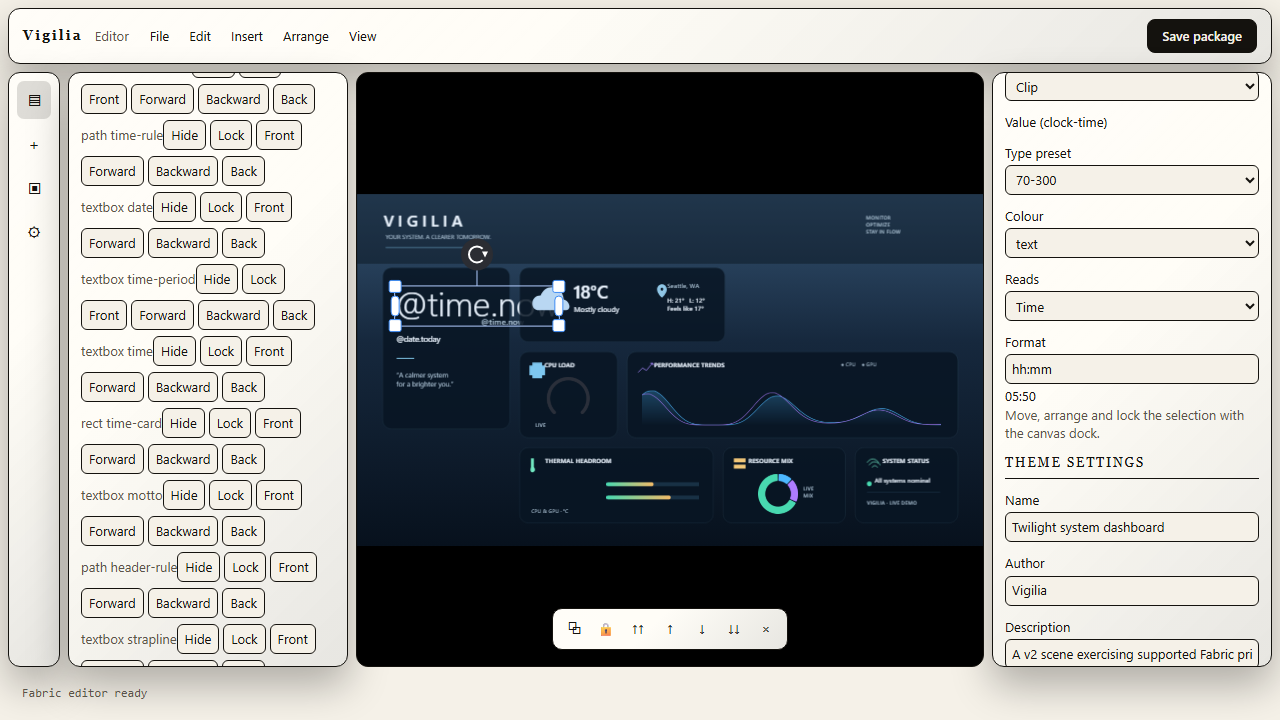
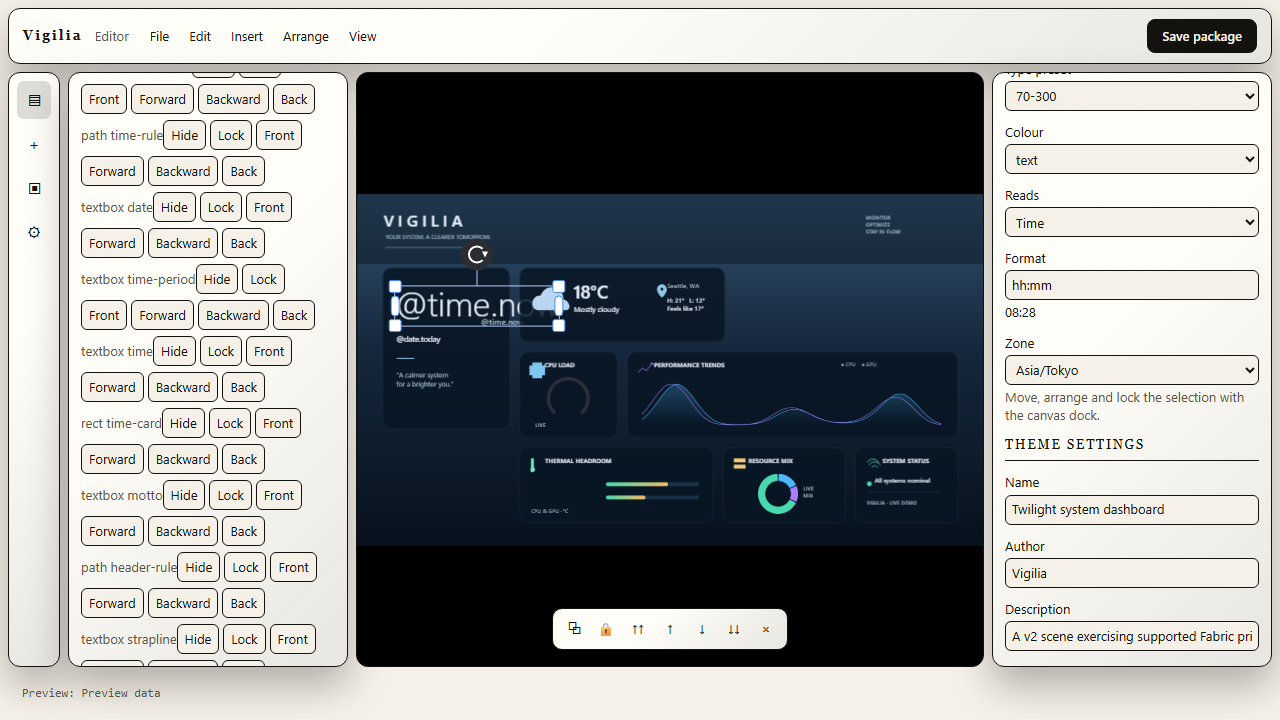
feat(editor): author a clock's zone from the run row
The binding's zone was honoured end to end but nothing wrote it, so a
world-clocks theme had to be authored in the envelope. The run row now
carries a Zone picker beside Format: its first option follows the display
and the rest are every zone `Intl` resolves. `knownTimeZones` leads with
UTC, which `Intl` resolves but omits from its canonical list and which is
the zone a dashboard most often pins, and an alias that list omits keeps
its own entry rather than reading as unpinned.

diff --git a/src/web/packages/editor/src/selection-inspector/runs.ts b/src/web/packages/editor/src/selection-inspector/runs.ts
@@ -8,6 +8,7 @@ import {
   describeSemanticKey,
   formatInstant,
   instantIn,
+  knownTimeZones,
   SEMANTIC_KEYS,
 } from "@vigilia/renderer-core";
 import { applyAuthoredText } from "@vigilia/scene-fabric";
@@ -91,6 +92,18 @@ function withFormat(binding: Binding, format: string): Binding {
   }
 
   return { ...binding, format: trimmed };
+}
+
+/** A binding with `timeZone` pinned, or without the field when none is. */
+function withZone(binding: Binding, timeZone: string): Binding {
+  const trimmed = timeZone.trim();
+
+  if (trimmed.length === 0) {
+    const { timeZone: _timeZone, ...rest } = binding;
+    return rest;
+  }
+
+  return { ...binding, timeZone: trimmed };
 }
 
 /** A binding for `key`, with the fields the previous key's reading needed dropped. */
@@ -336,6 +349,57 @@ export function createRunEditor(
     return wrapper;
   };
 
+  /**
+   * Which zone the reading is taken in. A dashboard showing another city than
+   * the one it runs in is the point of a world clock, so the zone is the
+   * author's to pin; leaving it alone follows the display, which reads in
+   * whatever zone its consumer chose.
+   */
+  const zoneField = (
+    index: number,
+    binding: Binding,
+    port: RunBindingPort,
+  ): HTMLElement => {
+    const wrapper = document.createElement("label");
+    wrapper.textContent = uiCopy.inspectorFields.runZone;
+    const select = document.createElement("select");
+    select.dataset["vigiliaRunZone"] = String(index);
+    const follows = document.createElement("option");
+    follows.value = "";
+    follows.textContent = uiCopy.inspectorFields.runZoneFollows;
+    select.append(follows);
+
+    const pinned = binding.timeZone;
+    const zones = knownTimeZones();
+    // An alias the canonical list omits (`US/Pacific`) is a zone the envelope
+    // accepts, so it keeps its own entry rather than reading as unpinned.
+    for (const name of pinned !== undefined && !zones.includes(pinned)
+      ? [pinned, ...zones]
+      : zones) {
+      const option = document.createElement("option");
+      option.value = name;
+      option.textContent = name;
+      select.append(option);
+    }
+
+    select.value = pinned ?? "";
+    select.addEventListener("change", () => {
+      port.setBindings(
+        port
+          .bindings()
+          .map((candidate) =>
+            candidate.id === binding.id
+              ? withZone(candidate, select.value)
+              : candidate,
+          ),
+      );
+      onChange();
+    });
+
+    wrapper.append(select);
+    return wrapper;
+  };
+
   runs.forEach((run, index) => {
     const row = document.createElement("section");
     row.dataset["vigiliaRun"] = String(index);
@@ -406,7 +470,10 @@ export function createRunEditor(
         bound !== undefined &&
         describeSemanticKey(bound.semanticKey)?.instant !== undefined
       ) {
-        row.append(formatField(index, bound, port));
+        row.append(
+          formatField(index, bound, port),
+          zoneField(index, bound, port),
+        );
       }
     }
 

diff --git a/src/web/packages/editor/src/selection-inspector/runs.dom.test.ts b/src/web/packages/editor/src/selection-inspector/runs.dom.test.ts
@@ -90,13 +90,14 @@ describe("binding a text run to a sensor", () => {
     return box.dispose();
   });
 
-  it("offers a format only for a key that is an instant", () => {
+  it("offers a format and a zone only for a key that is an instant", () => {
     const box = harness(literalClock);
     const source = box.pick<HTMLSelectElement>('[data-vigilia-run-source="0"]');
 
     choose(source, "cpu.load");
     box.render();
     expect(box.host.querySelector('[data-vigilia-run-format="0"]')).toBeNull();
+    expect(box.host.querySelector('[data-vigilia-run-zone="0"]')).toBeNull();
 
     choose(
       box.pick<HTMLSelectElement>('[data-vigilia-run-source="0"]'),
@@ -105,6 +106,9 @@ describe("binding a text run to a sensor", () => {
     box.render();
     expect(
       box.host.querySelector('[data-vigilia-run-format="0"]'),
+    ).not.toBeNull();
+    expect(
+      box.host.querySelector('[data-vigilia-run-zone="0"]'),
     ).not.toBeNull();
     return box.dispose();
   });
@@ -162,7 +166,7 @@ describe("binding a text run to a sensor", () => {
     return box.dispose();
   });
 
-  it("drops a format that described the reading the run no longer reads", () => {
+  it("drops what described the reading the run no longer reads", () => {
     const box = harness(literalClock);
     choose(
       box.pick<HTMLSelectElement>('[data-vigilia-run-source="0"]'),
@@ -173,6 +177,10 @@ describe("binding a text run to a sensor", () => {
     input.value = "dddd";
     input.dispatchEvent(new Event("change"));
     box.render();
+    choose(
+      box.pick<HTMLSelectElement>('[data-vigilia-run-zone="0"]'),
+      "Asia/Tokyo",
+    );
 
     choose(
       box.pick<HTMLSelectElement>('[data-vigilia-run-source="0"]'),
@@ -181,6 +189,34 @@ describe("binding a text run to a sensor", () => {
 
     expect(box.stored()[0]?.semanticKey).toBe("cpu.load");
     expect(box.stored()[0]?.format).toBeUndefined();
+    expect(box.stored()[0]?.timeZone).toBeUndefined();
+    return box.dispose();
+  });
+
+  it("reads the clock in the zone the author pinned to it", () => {
+    const box = harness(literalClock);
+    choose(
+      box.pick<HTMLSelectElement>('[data-vigilia-run-source="0"]'),
+      "time.now",
+    );
+    box.render();
+
+    // Unpinned is the default: the display reads wherever its consumer is.
+    const zone = box.pick<HTMLSelectElement>('[data-vigilia-run-zone="0"]');
+    expect(zone.value).toBe("");
+
+    choose(zone, "Asia/Tokyo");
+    box.render();
+    expect(box.stored()[0]?.timeZone).toBe("Asia/Tokyo");
+
+    // The preview is the reading the run will paint, so pinning a zone has to
+    // change what it says rather than only what is stored.
+    expect(box.pick('[data-vigilia-run-format-preview="0"]').textContent).toBe(
+      formatInstant(instantIn(Date.now()), "HH:mm", "Asia/Tokyo"),
+    );
+
+    choose(box.pick<HTMLSelectElement>('[data-vigilia-run-zone="0"]'), "");
+    expect(box.stored()[0]?.timeZone).toBeUndefined();
     return box.dispose();
   });
 

diff --git a/src/web/tests/e2e/editor-fork.spec.ts b/src/web/tests/e2e/editor-fork.spec.ts
@@ -201,7 +201,43 @@ test.describe("Fabric editor route", () => {
     await expect(source).toHaveValue("time.now");
     const format = page.locator('[data-vigilia-run-format="0"]');
     await expect(format).toBeVisible();
-    await format.scrollIntoViewIfNeeded();
+    // The starter clock's own tokens, so the reading below is one this test can
+    // compute rather than one it wrote.
+    await expect(format).toHaveValue("hh:mm");
+
+    // A clock pinned to another city is the point of a world clock, so the zone
+    // has to change the reading rather than only the envelope: the control is
+    // rebuilt from what was written, and the preview follows it.
+    const zone = page.locator('[data-vigilia-run-zone="0"]');
+    await expect(zone).toHaveValue("");
+    await zone.selectOption("Asia/Tokyo");
+    await expect(zone).toHaveValue("Asia/Tokyo");
+    await expect
+      .poll(
+        async () => {
+          const shown = (
+            await page
+              .locator('[data-vigilia-run-format-preview="0"]')
+              .textContent()
+          )?.trim();
+          const tokyo = await page.evaluate(() => {
+            const parts = new Intl.DateTimeFormat("en-GB", {
+              timeZone: "Asia/Tokyo",
+              hour12: true,
+              hour: "2-digit",
+              minute: "2-digit",
+            }).formatToParts(new Date());
+            const part = (type: string): string =>
+              parts.find((entry) => entry.type === type)?.value ?? "";
+            return `${part("hour")}:${part("minute")}`;
+          });
+          return shown === tokyo;
+        },
+        { timeout: 10_000 },
+      )
+      .toBe(true);
+
+    await zone.scrollIntoViewIfNeeded();
 
     await captureVisualReview(page, testInfo, "editor-fork-text-reads");
   });

diff --git a/src/web/packages/renderer-core/src/scene/datetime-format.test.ts b/src/web/packages/renderer-core/src/scene/datetime-format.test.ts
@@ -1,5 +1,11 @@
 import { describe, expect, it } from "vitest";
-import { formatInstant, instantIn, parseInstant } from "./datetime-format.js";
+import {
+  formatInstant,
+  instantIn,
+  isTimeZoneName,
+  knownTimeZones,
+  parseInstant,
+} from "./datetime-format.js";
 
 /** A Thursday: 2026-09-24, 14:07:09 at +07:00. */
 const INSTANT = "2026-09-24T14:07:09+07:00";
@@ -98,5 +104,14 @@ describe("the instant a provider reports", () => {
 
   it("falls back to this machine rather than losing the clock", () => {
     expect(instantIn(NOW_MS, "Mars/Olympus")).toBe(instantIn(NOW_MS));
+  });
+});
+
+describe("the zones an author may pin", () => {
+  it("offers UTC, and only names this runtime resolves", () => {
+    const zones = knownTimeZones();
+
+    expect(zones[0]).toBe("UTC");
+    expect(zones.every(isTimeZoneName)).toBe(true);
   });
 });

diff --git a/src/web/packages/renderer-core/src/scene/datetime-format.ts b/src/web/packages/renderer-core/src/scene/datetime-format.ts
@@ -230,9 +230,13 @@ export function isTimeZoneName(value: string): boolean {
   }
 }
 
-/** Every zone an author may pin a clock to, for the authoring control. */
+/**
+ * Every zone an author may pin a clock to, for the authoring control. `Intl`
+ * resolves UTC but omits it from the canonical list, and server time is the zone
+ * a dashboard most often pins, so it leads.
+ */
 export function knownTimeZones(): readonly string[] {
-  return Intl.supportedValuesOf("timeZone");
+  return ["UTC", ...Intl.supportedValuesOf("timeZone")];
 }
 
 /** Renders an instant with the author's tokens; literals pass through. */

diff --git a/src/web/packages/editor/src/ui-copy.ts b/src/web/packages/editor/src/ui-copy.ts
@@ -37,6 +37,8 @@ export const uiCopy = {
     runSource: "Reads",
     staticText: "Static text",
     runFormat: "Format",
+    runZone: "Zone",
+    runZoneFollows: "Follow the display",
     valueRun: "Value",
     emptyRun: "(empty)",
     align: "Align",

diff --git a/.agents/status.md b/.agents/status.md
@@ -8,7 +8,7 @@ Current handoff only. Durable rules: `AGENTS.md`; product:
 
 | Check | Result |
 |---|---|
-| Clock and date as sensors | The starter theme's clock was authored literal text (`"07:24"`), so it looked like a clock and showed one time for ever. `time.now` and `date.today` now come from a host provider as **instants**: the reading carries the offset of the zone it was read in, so two displays agree and none of them re-converts. An author owns how it reads, with a small token set (`HH H hh h mm ss dddd ddd DD D MMMM MMM MM YYYY YY A a`, `[bracketed]` literals, unknown tokens kept literally rather than blanked); the Design tab's run row gained a **Reads** picker and a **Format** field with a live preview, so a binding can finally be authored rather than only pre-built. The consumer owns only the zone, as a global setting (`/settings` → Display, stored in `display.json` beside the themes) applied by the provider. Two defects were found by driving it rather than reading it: an unbind left a stale `run.bindingId`, and the e2e probe's `adapter.objectFor` indexes only what a plan applied — so on a scene revived from a package every object read as missing, which is what the new clock test tripped over. Verified against the real host: the painted clock advanced on its own across cadences (17:39:08 → 17:39:10), and after `PUT /api/display {"timeZone":"Asia/Tokyo"}` the painted reading matched Tokyo's wall clock while an unchosen zone matched this PC's. Evidence: 1215-unit suite, `biome check` exit 0, seven-project typecheck, builds, 283.8 KB size gate, full browser suite 92 passed / 40 skipped / 0 failed, and an inspected `editor-fork-text-reads` capture. |
+| Clock and date as sensors | The starter theme's clock was authored literal text (`"07:24"`), so it looked like a clock and showed one time for ever. `time.now` and `date.today` now come from a host provider as **instants**: the reading carries the offset of the zone it was read in, so two displays agree and none of them re-converts. An author owns how it reads, with a small token set (`HH H hh h mm ss dddd ddd DD D MMMM MMM MM YYYY YY A a`, `[bracketed]` literals, unknown tokens kept literally rather than blanked) and **which zone each clock shows**: the Design tab's run row gained a **Reads** picker, a **Format** field with a live preview and a **Zone** picker whose first option follows the display and whose list leads with UTC. The consumer owns only the default zone, as a global setting (`/settings` → Display, stored in `display.json` beside the themes) applied by the provider. Two defects were found by driving it rather than reading it: an unbind left a stale `run.bindingId`, and the e2e probe's `adapter.objectFor` indexes only what a plan applied — so on a scene revived from a package every object read as missing, which is what the new clock test tripped over. Verified against the real host: the painted clock advanced on its own across cadences (17:39:08 → 17:39:10), and after `PUT /api/display {"timeZone":"Asia/Tokyo"}` the painted reading matched Tokyo's wall clock while an unchosen zone matched this PC's. Verified in the editor: pinning `Asia/Tokyo` on the starter clock left the rebuilt control reading Tokyo, with the preview matching that zone's wall clock rather than this PC's — and the zone tests were re-run with the write disabled, where both fail. Evidence: 1217-unit suite, `biome check` exit 0, seven-project typecheck, builds, 283.8 KB size gate, full browser suite 93 passed / 41 skipped / 0 failed, and an inspected `editor-fork-text-reads` capture showing Reads / Format / preview / Zone. |
 | Theme thumbnails | The library showed themes as text, so choosing between them meant opening them. A still of the artboard is now captured in the editor at save time — from the canvas already on screen with its fonts loaded, so no second renderer and no new host dependency — stored beside the package rather than inside it (the package format admits only manifest.json, theme.json and assets/, and a thumbnail is a rendering of one machine's fonts). `GET /api/themes/:id/thumbnail` serves it and a missing one is a 404 the library falls back from, so older packages still list; `PUT` is loopback-only, bounded to 2 MiB and PNG-checked; a capture failure warns and never fails the save. Verified end to end: saving stored a 75 KB PNG, the route served it as image/png, and the library page decoded it at 626x352 (the artboard's aspect), with an inspected capture showing the rendered dashboard beside the theme name. Evidence: 1161-unit suite, `biome check` exit 0, seven-project typecheck, builds, 281.9 KB size gate, browser suite 91 passed / 0 failed. || Author journey — selection inspector and text | An author can now change what they selected. The Design tab carries X/Y/width/height/rotation, opacity with the object's paint reference **and what it resolves to** ("palette.panel -> #081523d9"), run rows with per-run preset and colour, and text alignment/wrap/overflow. Text is editable in place on double-click, which Fabric does not wire itself: its own double-click handler only selects a word while already editing. Value runs read as their token while authoring (`@cpu.load`), with unmapped and undeclared bindings shown distinctly, and the values remain one View-menu choice away. Five defects were found by driving it rather than reading it: new text was created half off the artboard and painted in the artboard colour (invisible, therefore unselectable); a run's colour never reached Fabric because `refreshBoundText` only handles objects a sample resolves; single runs were skipped outright; `applyAuthoredText` never reapplied alignment, so every layout change was invisible; and new text used the smallest preset (an 11px caption) instead of a body size. Verified in a browser with inspected captures. Evidence: 1155-unit suite, `biome check` exit 0, seven-project typecheck, builds, 281.9 KB size gate, browser suite 91 passed / 0 failed. |
 | Consumer journey — choose, configure, forget | A consumer may never open the editor, so they must be able to take a theme and answer only what it needs. `/settings` now covers both decisions under one heading: Themes lists every saved theme by name and author with the chosen one marked "Showing", and Devices asks which hardware it reports. The host remembers the chosen theme beside the device assignments and `/` resolves through it (explicit link, then the choice, then the only theme, then the library, then a first-run page); the choice survives a restart, and a stale one falls back rather than breaking. Verified against the real host: two themes listed and distinguishable by id, choosing one marked and persisted it, and the devices section rendered real hardware. || Two-disk slot and provider parity | A theme showing a system disk and a data disk had no way to express the second: the data-disk assignment was stored and offered in the UI but never read, so choosing it did nothing. The vocabulary now has `disk.data.*` as a second slot, and both providers answer it from the assigned volume; the library provider also scopes the aggregate disk keys to an assigned system disk, matching what the same assignment means for LHM. The library lists volumes by mount (what it can resolve) rather than model. Verified 2026-09-24 without LHM on this machine: C: as system and D: as data gave `disk.total` 465 GB and `disk.data.total` 3726 GB with 61.2% used, where an unassigned host sums every volume. A missing `disk.data.used.percent` in the library slot was also found and fixed. Evidence: 1132-unit suite, `biome check` exit 0, seven-project typecheck, builds, 281.8 KB size gate, browser suite 91 passed / 0 failed. |
 | Unreadable sensors explain themselves (§97) | A key no provider considers was absent from the SSE frame entirely, so a display could not distinguish "nothing reports this" from "no data yet"; the host now emits an explicit gap carrying the reason. The player shows a notice naming how many sensors have no reading and why, in the provider's own words, and renders nothing when every key has a reading. Verified 2026-09-24 against the real host: "1 of 1 sensors have no reading. no provider on this PC reports that sensor; check the device assignment or that its source is running", with the inspected capture confirming it renders, and a fully-readable theme showing no notice. Two test mistakes were caught and fixed: the first hook covered only the fixture path, and the first test passed on a theme whose keys all resolved. Evidence: 1122-unit suite, `biome check` exit 0, seven-project typecheck, builds, 281.8 KB size gate, browser suite 91 passed / 0 failed. |
@@ -139,7 +139,3 @@ unit, build, size and visual evidence. The full local browser suite passed on
   threshold bands are both resolved and rendered by the stress fixture.
 - Network throughput has no provider; an external source was chosen in
   principle but none is picked yet (`.agents/decisions.md`).
-- An author cannot yet pin one clock to a named zone in the editor:
-  `Binding.timeZone` is validated, honoured by the formatter and unit-tested,
-  but no control writes it, so a world-clocks theme is authored in the envelope
-  rather than in the editor.

diff --git a/docs/superpowers/specs/2026-09-24-clock-provider.md b/docs/superpowers/specs/2026-09-24-clock-provider.md
@@ -72,8 +72,12 @@ is resolved in two places, and they do not overlap:
 
 This requires one envelope addition: the binding carries an optional author-chosen
 zone. That is presentation of a reading, not a new reading, so it belongs on the
-binding beside `precision` and `unitDisplay`. The model, the renderer and the
-formatting tests honour it; no authoring control writes it yet (see Non-goals).
+binding beside `precision` and `unitDisplay`. The run row authors it beside
+**Format**: a **Zone** picker whose first option follows the display and whose
+remaining options are every name `Intl` resolves — UTC included, since `Intl`
+resolves it but omits it from its canonical list and server time is the zone a
+dashboard most often pins. The preview is the reading the run will paint, so it
+re-renders in the pinned zone.
 
 `Intl.DateTimeFormat` supplies zone offsets, so no date library is added.
 
@@ -132,9 +136,6 @@ clock a consumer configures, since the format is authored.
 
 ## Non-goals
 
-- An authoring control for the binding's own zone. The field is honoured end to
-  end but nothing writes it, so a pinned-zone clock is authored in the envelope
-  rather than in the editor.
 - A live-updating seconds clock: the cadence is the host's, and per-second redraw
   is a performance decision this does not need to make.
 - Timers, stopwatches, uptime or duration sensors.
@@ -171,3 +172,8 @@ clock a consumer configures, since the format is authored.
 Driven in a browser against the real host, checking two things the DOM alone
 cannot prove: that the shown time advances across cadences, and that changing the
 timezone changes the rendered value rather than only a stored setting.
+
+The authoring control is driven in the editor the same way: pinning a zone
+rebuilds the control from what was written and the preview then reads that zone's
+wall clock, which is what makes the control do something rather than store a
+value.

diff --git a/.agents/screenshots/README.md b/.agents/screenshots/README.md
@@ -23,7 +23,7 @@ result, not merely a mounted editor.
 | Workspace | Load starter document | `editor-fork` / `captures the mounted editor` |
 | Selection/bindings | Select chart; change semantic key/transform | `editor-fork-chart-binding` / `captures selected chart binding controls` |
 | Live bindings | Open a bound text document and observe its preview value | `editor-fork-live-text` / `refreshes bound text without saving its sampled value` |
-| Live bindings | Select a bound text run and read/format its value | `editor-fork-text-reads` / `captures the controls that give a text run its reading` |
+| Live bindings | Select a bound text run, format its value and pin its zone | `editor-fork-text-reads` / `captures the controls that give a text run its reading` |
 | Layers/arrange | Select a semantic layer and expose its layer/arrange controls | `editor-layer-arrange` / `captures semantic layer controls` |
 | Chart settings | Change family-specific scalar setting | `editor-fork-chart-binding` / `captures selected chart binding controls` |
 | Artboard | Change dimensions or preview fit | `editor-fork-artboard` / `captures changed artboard controls` |

diff --git a/.agents/architecture.md b/.agents/architecture.md
@@ -209,7 +209,7 @@ usage.
 | Provider scheduling/failure isolation/fallback | `host/src/providers/registry.ts` |
 | Device assignment and display names | `host/src/settings/devices.ts` |
 | Clock/date provider | `host/src/providers/clock.ts` |
-| Instant reading and author format tokens | `renderer-core/src/scene/datetime-format.ts` |
+| Instant reading, author format tokens and the zone list | `renderer-core/src/scene/datetime-format.ts` |
 | Consumer device-selection page | `host/public/settings.html` |
 | LibreHardwareMonitor provider, tree and key mapping | `host/src/providers/lhm*.ts` |
 | LHM launch and elevation reporting | `host/src/providers/lhm-launcher.ts` |
